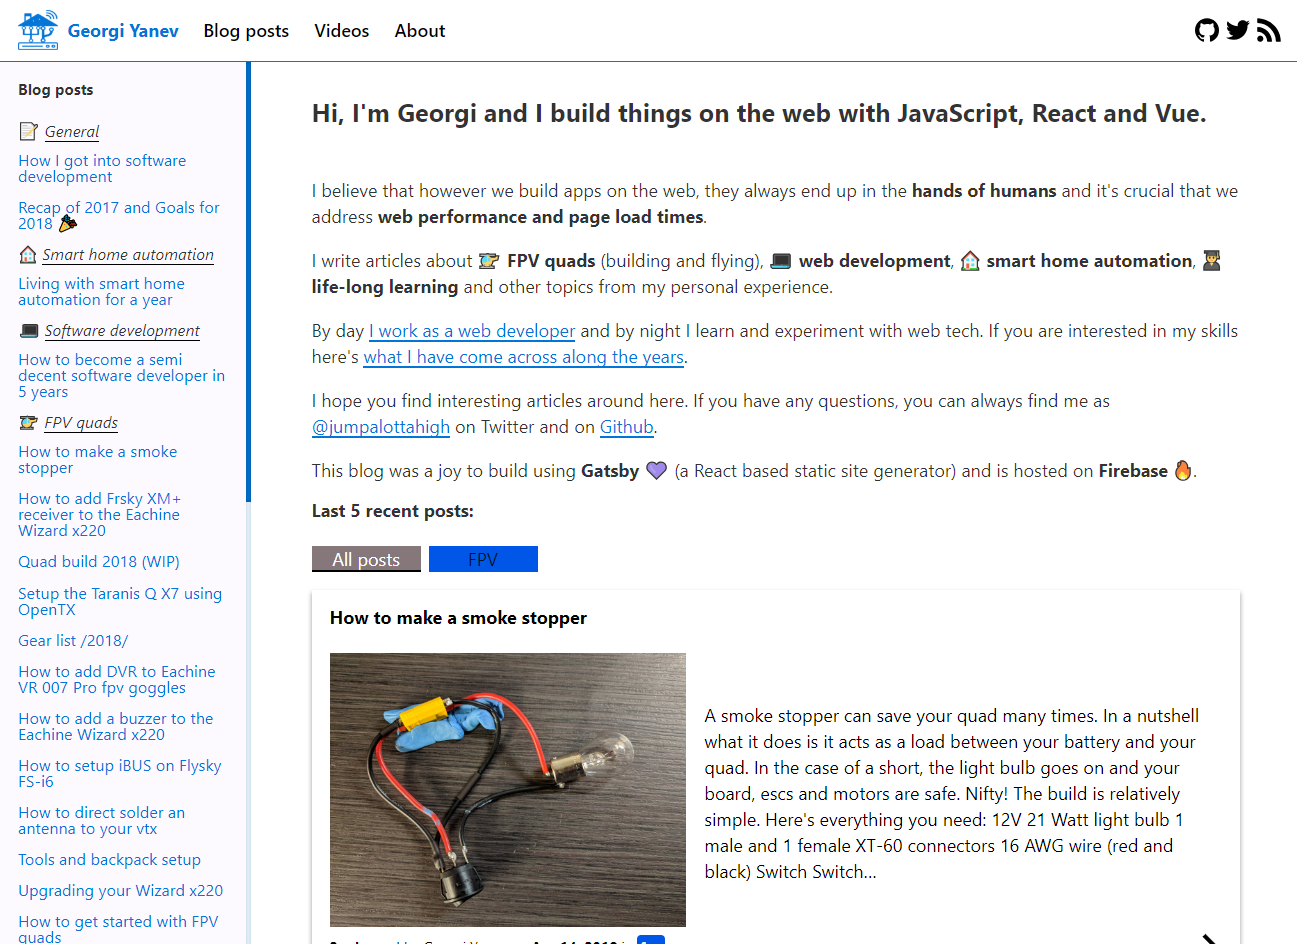
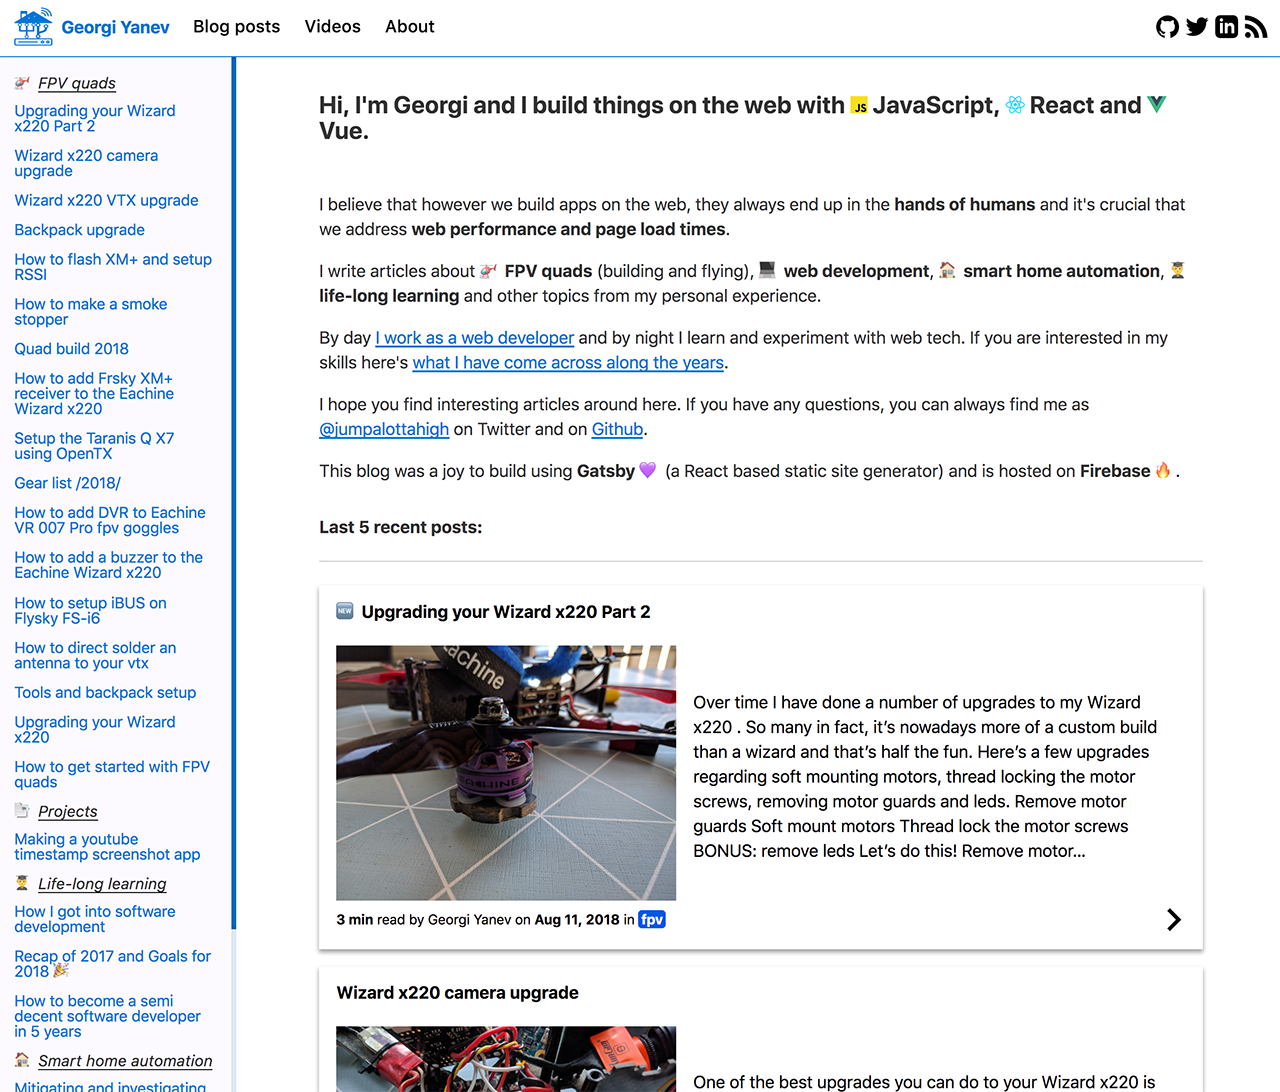
Remove firebase related files; Update preview

Changed region(s): [[0.0, 0.0, 0.9688, 1.0], [0.25, 0.0922, 0.9375, 0.1536], [0.9062, 0.0, 1.0, 0.0614]]

diff --git a/README.md b/README.md
@@ -1,6 +1,6 @@
 # blog.georgi-yanev.com
 
-### :orange_book: Gatsby (React) based blog. Hosted on Firebase.
+### :orange_book: Blog built with Gatsby and hosted on Netlify.
 
 This blog uses Gatsby as a React based static site generator. I write articles about FPV quads, web dev, life-long learning and other topics from my personal experience.
 
@@ -14,11 +14,7 @@ $ npm install
 
 To run locally in dev mode:
 
-`$ npm run develop`
-
-To deploy to Firebase:
-
-`$ npm run deploy`
+`$ npm run dev`
 
 <img src="blog.georgi-yanev.com-preview.png">
 
